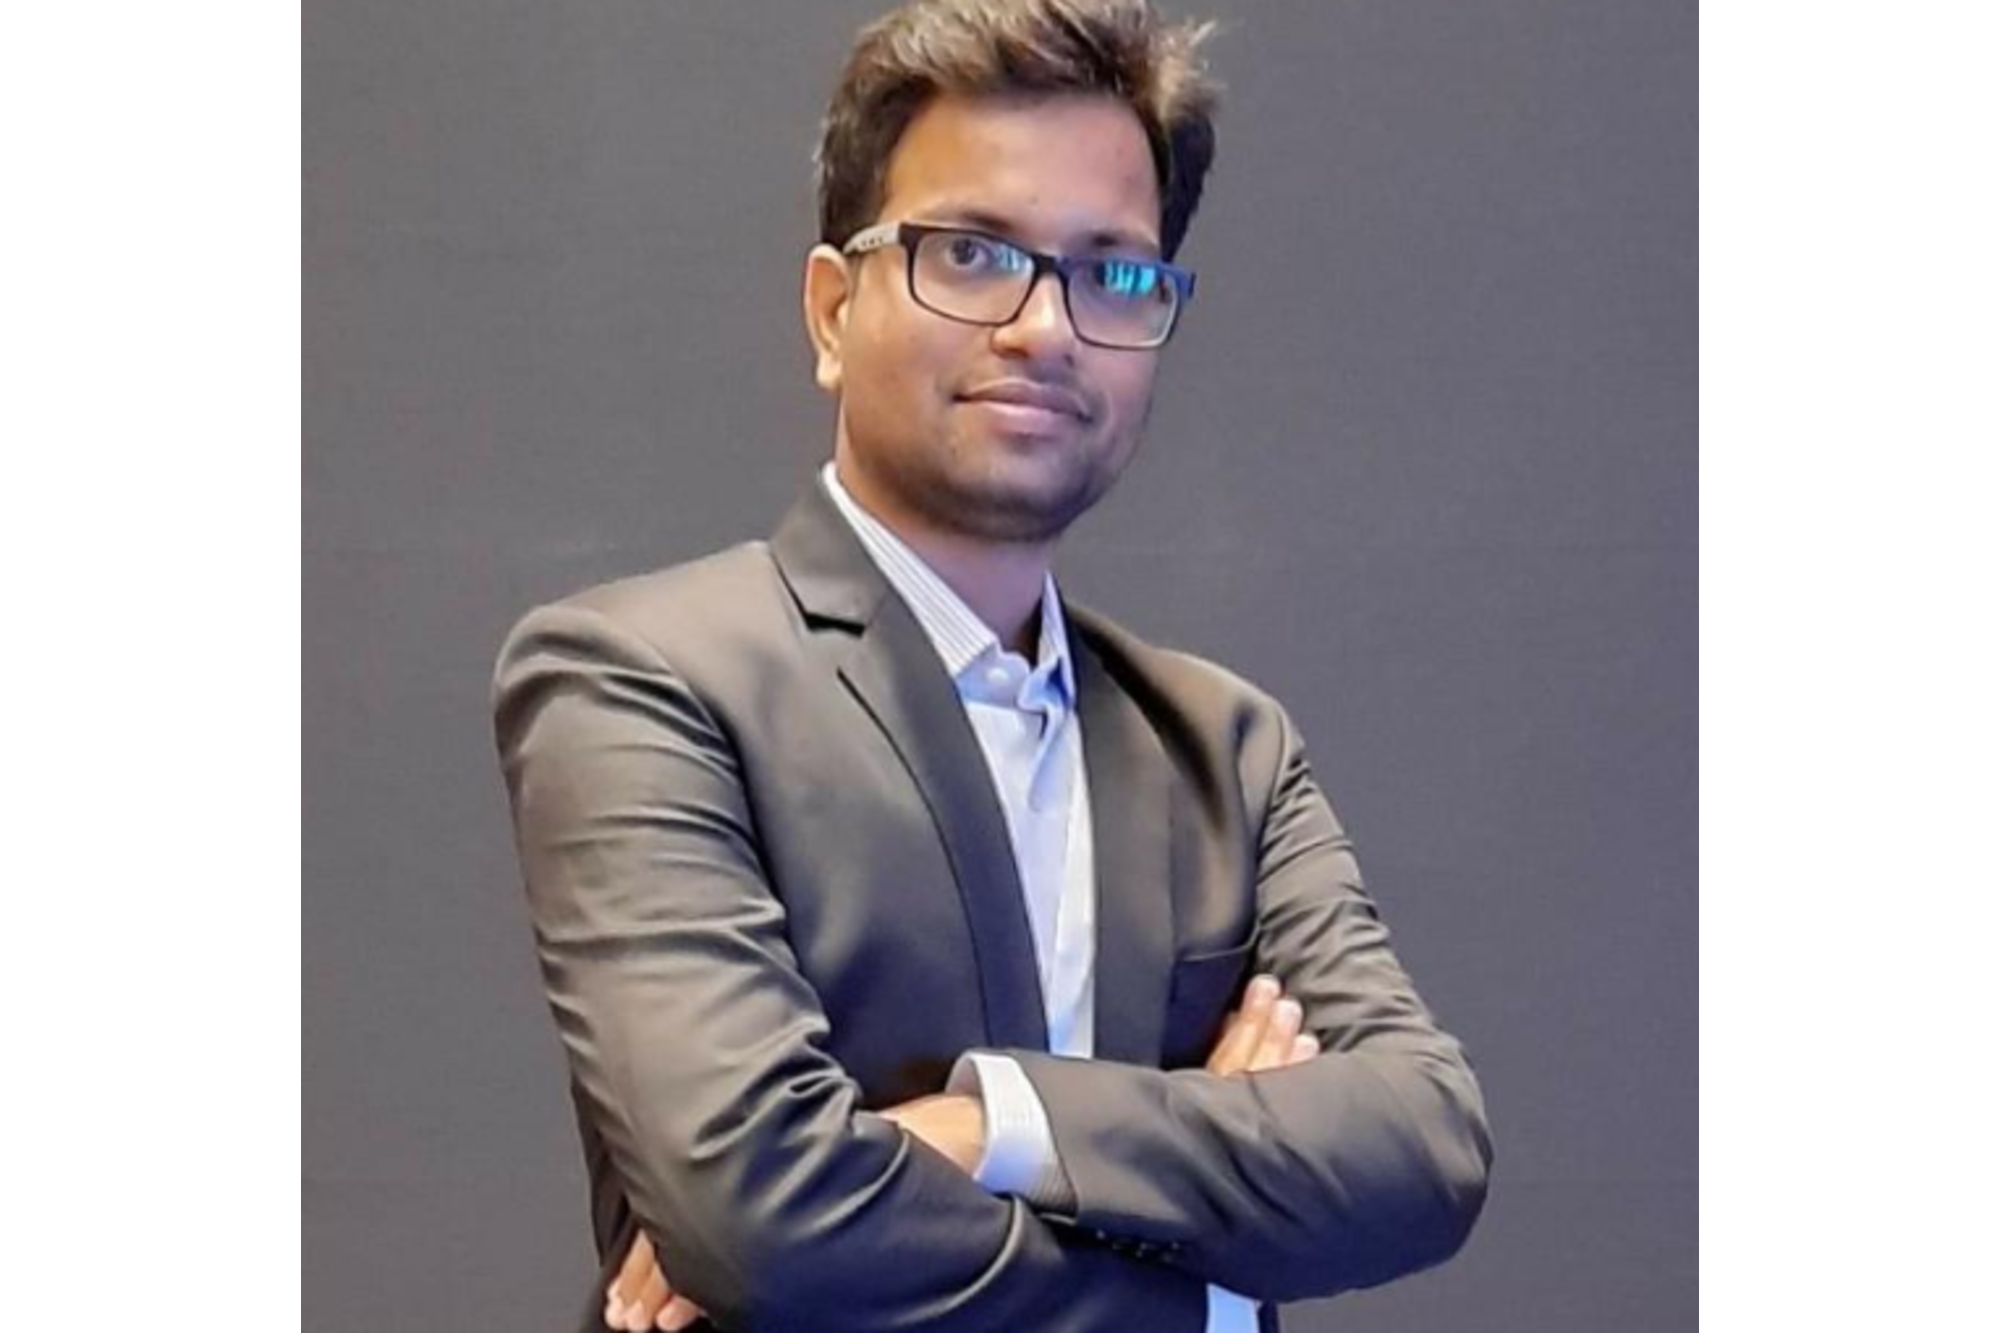
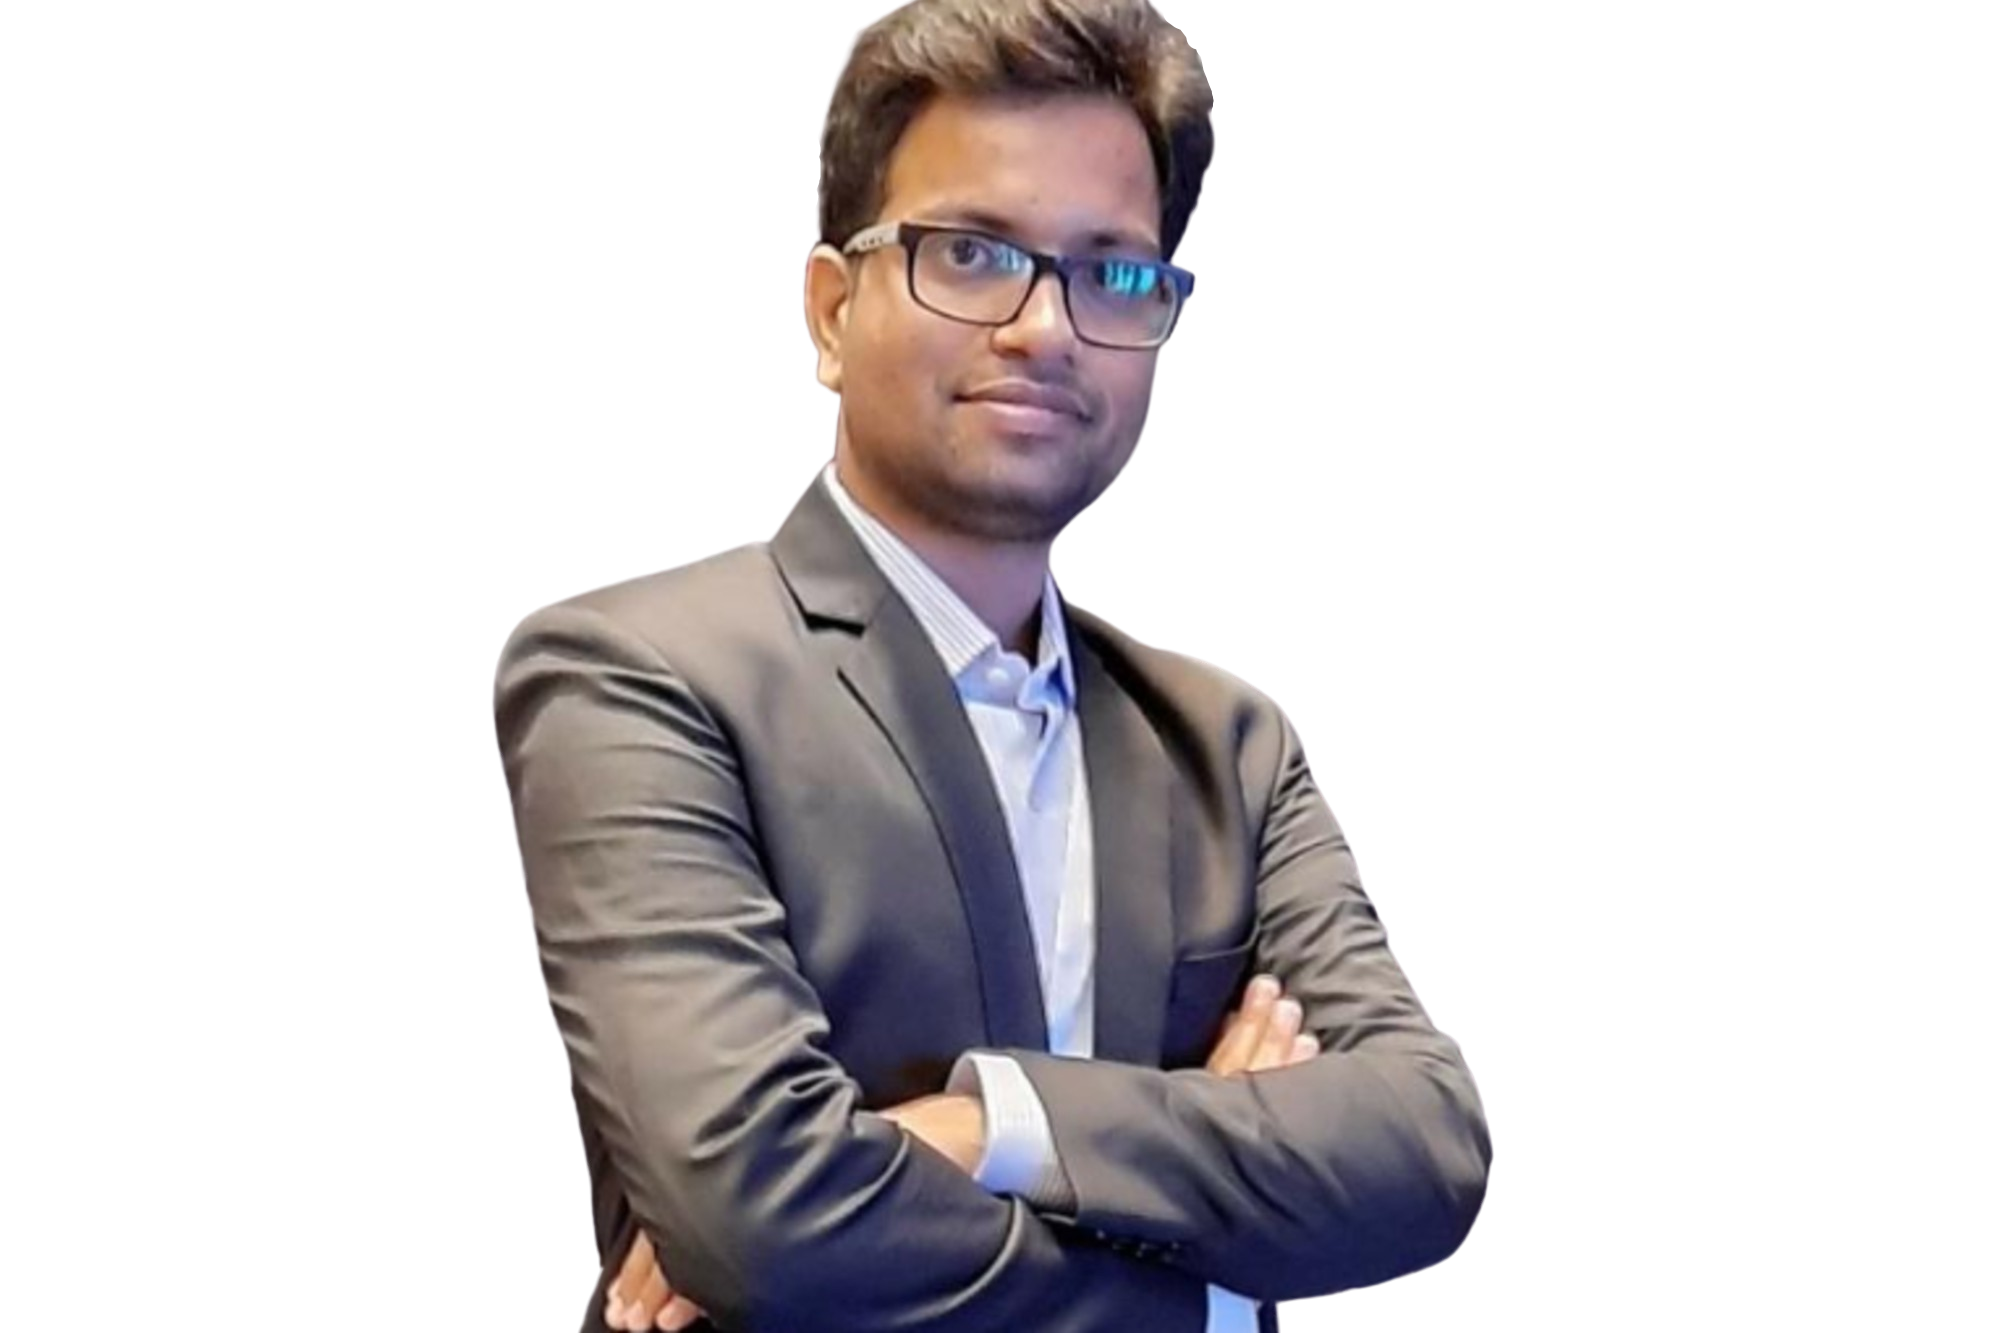
Design: improvised the image and removed the player

diff --git a/index.html b/index.html
@@ -53,10 +53,10 @@
 	          	<div class="one-third order-md-last img" style="background-image:url(images/bg_1.png);">
 	          		<div class="overlay"></div>
 	          	</div>
-		          <div class="one-forth d-flex  align-items-center ftco-animate" data-scrollax=" properties: { translateY: '70%' }">
-		          	<a href="https://vimeo.com/45830194" class="icon-video popup-vimeo d-flex justify-content-center align-items-center">
+		          <div class="one-forth d-flex  align-items-center ftco-animate" data-scrollax=" properties: { translateY: '30%' }">
+		          	<!--<a href="https://vimeo.com/45830194" class="icon-video popup-vimeo d-flex justify-content-center align-items-center">
 	    						<span class="ion-ios-play play"></span>
-	    					</a>
+	    					</a> -->
 		          	<div class="text">
 		          		<span class="subheading">Hello</span>
 			            <h1 class="mb-4 mt-3">I'm <span>Atul Dubey</span></h1>
